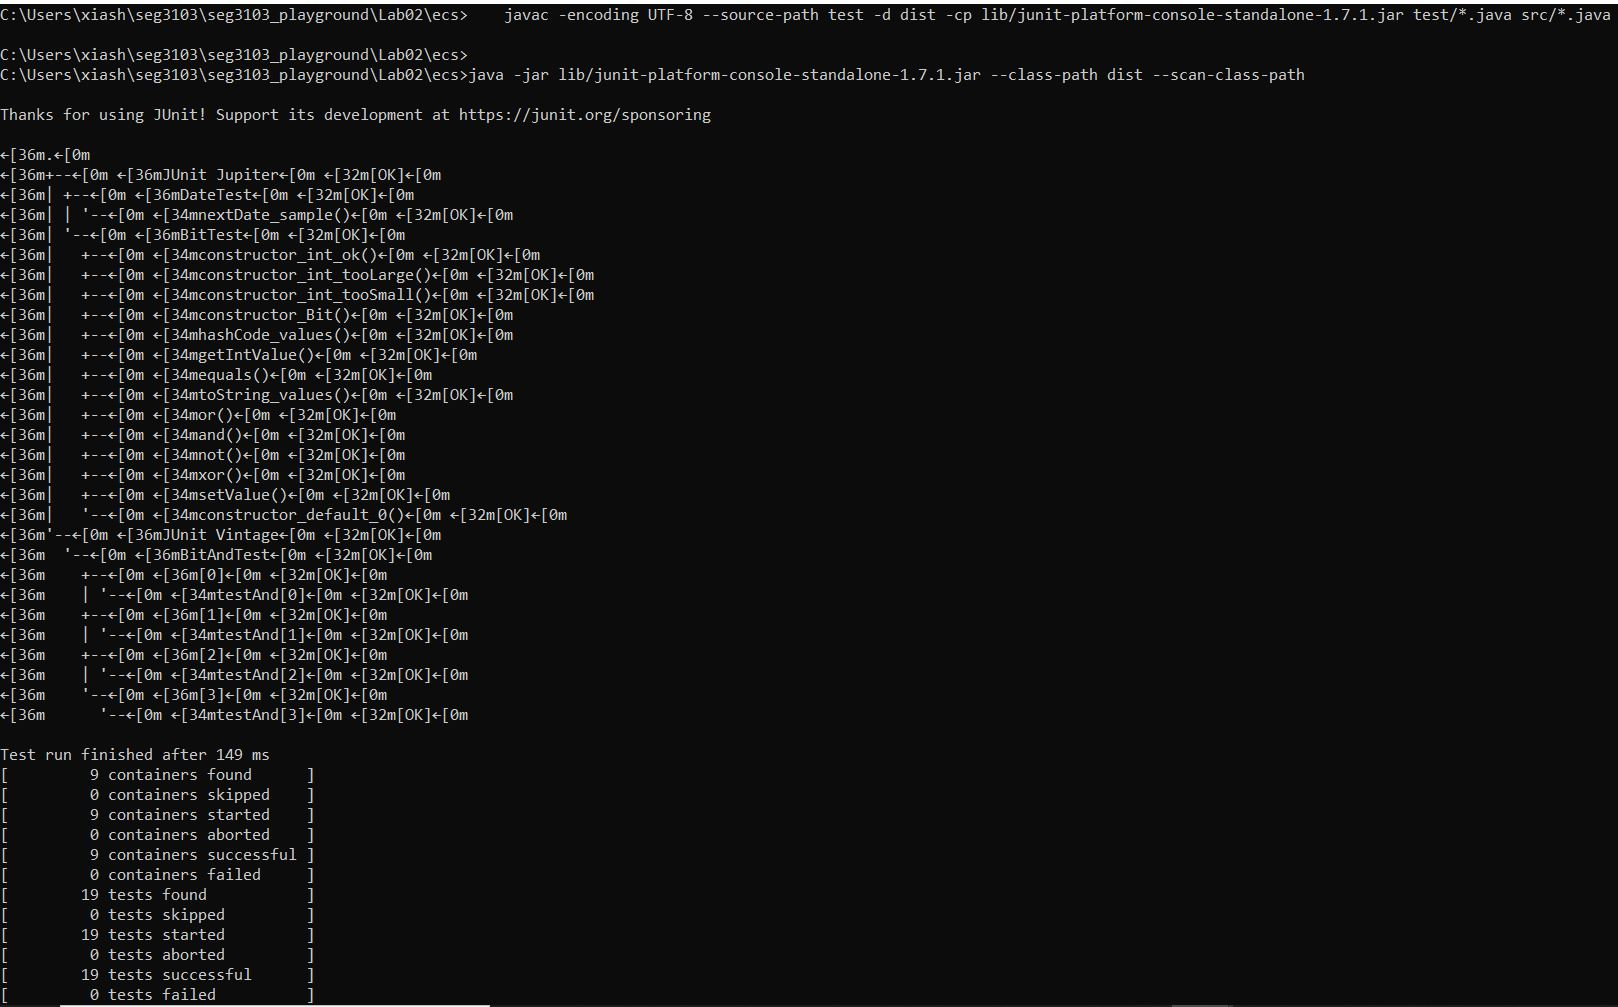
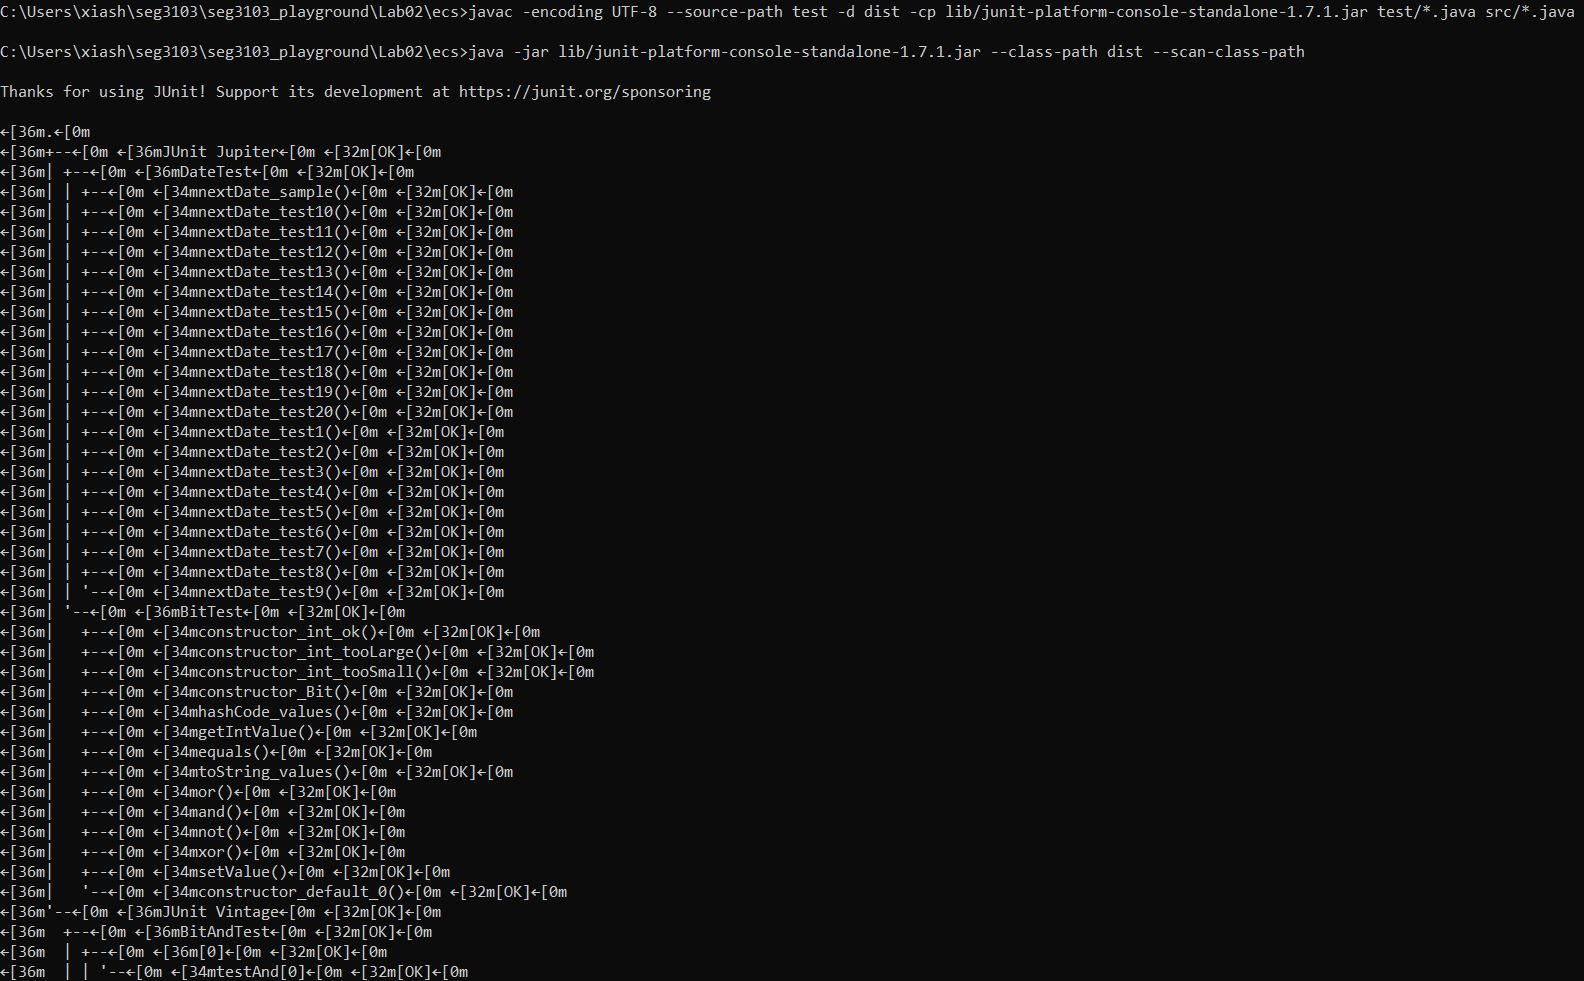
update test java

Changed region(s): [[0.0, 0.0, 1.0, 1.0]]

diff --git a/Lab02/ecs/test/DateTest.java b/Lab02/ecs/test/DateTest.java
@@ -6,8 +6,123 @@ class DateTest {
 
   @Test
   void nextDate_sample() {
-    Date d = new Date(2020,5,3);
-    assertEquals(new Date(2020,5,4), d.nextDate());
+    Date d = new Date(2020, 5, 3);
+    assertEquals(new Date(2020, 5, 4), d.nextDate());
+  }
+
+@Test
+  void nextDate_test1() {
+    Date d = new Date(1700,6,20);
+    assertEquals(new Date(1700,6,21), d.nextDate());
+  }
+
+  @Test
+  void nextDate_test2() {
+    Date d = new Date(2005,4,15);
+    assertEquals(new Date(2005,4,16), d.nextDate());
+  }
+
+  @Test
+  void nextDate_test3() {
+    Date d = new Date(1901,7,20);
+    assertEquals(new Date(1901,7,21), d.nextDate());
+  }
+
+  @Test
+  void nextDate_test4() {
+    Date d = new Date(3456,3,27);
+    assertEquals(new Date(3456,3,28), d.nextDate());
+  }
+
+  @Test
+  void nextDate_test5() {
+    Date d = new Date(1500,2,17);
+    assertEquals(new Date(1500,2,18), d.nextDate());
+  }
+
+  @Test
+  void nextDate_test6() {
+    Date d = new Date(1700,6,29);
+    assertEquals(new Date(1700,6,30), d.nextDate());
+  }
+
+  @Test
+  void nextDate_test7() {
+    Date d = new Date(1800,11,29);
+    assertEquals(new Date(1800,11,30), d.nextDate());
+  }
+
+  @Test
+  void nextDate_test8() {
+    Date d = new Date(3453,1,29);
+    assertEquals(new Date(3453,1,30), d.nextDate());
+  }
+
+  @Test
+  void nextDate_test9() {
+    Date d = new Date(444,2,29);
+    assertEquals(new Date(444,3,1), d.nextDate());
+  }
+
+  @Test
+  void nextDate_test10() {
+    Date d = new Date(2005,4,30);
+    assertEquals(new Date(2005,5,1), d.nextDate());
+  }
+
+  @Test
+  void nextDate_test11() {
+    Date d = new Date(3453,1,30);
+    assertEquals(new Date(3453,1,31), d.nextDate());
+  }
+
+  @Test
+  void nextDate_test12() {
+    Date d = new Date(3456,3,30);
+    assertEquals(new Date(3456,03,31), d.nextDate());
+  }
+
+  @Test
+  void nextDate_test13() {
+    Date d = new Date(1901,7,31);
+    assertEquals(new Date(1901,8,1), d.nextDate());
+  }
+
+  @Test
+  void nextDate_test14() {
+    Date d = new Date(3453,1,31);
+    assertEquals(new Date(3453,2,1), d.nextDate());
+  }
+
+  @Test
+  void nextDate_test15() {
+    Date d = new Date(3456,12,31);
+    assertEquals(new Date(3457,01,01), d.nextDate());
+  }
+
+  @Test
+  void nextDate_test16() {
+  	assertThrows(IllegalArgumentException.class, () -> new Date(1500,2,31));
+  }
+
+  @Test
+  void nextDate_test17() {
+    assertThrows(IllegalArgumentException.class, () -> new Date(1500,2,29));
+  }
+
+  @Test
+  void nextDate_test18() {
+    assertThrows(IllegalArgumentException.class, () -> new Date(-1,10,20));
+  }
+
+  @Test
+  void nextDate_test19() {
+    assertThrows(IllegalArgumentException.class, () -> new Date(1458,15,12));
+  }
+
+  @Test
+  void nextDate_test20() {
+    assertThrows(IllegalArgumentException.class, () -> new Date(1975,6,-50));
   }
 
 }

diff --git a/Lab02/ecs/test/DateNextDateOkTest.java b/Lab02/ecs/test/DateNextDateOkTest.java
@@ -1,5 +1,88 @@
+import java.util.LinkedList;
+import java.util.List;
+import org.junit.Assert;
+import org.junit.Test;
+import org.junit.runner.RunWith;
+import org.junit.runners.Parameterized;
+import org.junit.runners.Parameterized.Parameters;
+
+@RunWith(Parameterized.class)
 public class DateNextDateOkTest
-{
+{ 
+    public int day;
+	public int month;
+	public int year; 	
+	private Date date;
+	private Date expDate;
+
+	public DateNextDateOkTest(int year, int month, int day) {
+		this.day = day; 	
+		this.month= month;
+		this.year = year;  
+		this.date = new Date(year, month, day);
+		this.expDate = date.nextDate();
+	}
+
+	@Parameters public static List<Integer[]> dateList() {
+		List<Integer[]> testDate = new LinkedList<Integer[]>();
+		testDate.add(new Integer[] {  1700 ,  6,  20 });
+		testDate.add(new Integer[] {  2005 ,  4,  15 });
+		testDate.add(new Integer[] { 1901,  7 ,  20 });
+		testDate.add(new Integer[] { 3456,  3 , 27 });
+		testDate.add(new Integer[] { 1500,  2 ,  17 });
+		testDate.add(new Integer[] { 1700,  6 ,  29 });
+		testDate.add(new Integer[] {  1800 , 11, 29 });
+		testDate.add(new Integer[] {  3453 ,  1, 29 });
+		testDate.add(new Integer[] { 444,  2 ,  29 });
+		testDate.add(new Integer[] { 2005,  4 , 30 });
+		testDate.add(new Integer[] { 3453,  1 , 30 });
+		testDate.add(new Integer[] { 3456,  3 , 30 });
+		testDate.add(new Integer[] {  1901 ,  7, 31 });
+		testDate.add(new Integer[] { 3453,  1 , 31 });
+		testDate.add(new Integer[] { 3456,  12 , 31 });
+
+		return testDate;
+	}
+
+
+
+	@Test
+	public void testNextDate()	{
+	
+   switch(month){
+	   case 1: case 3: case 5: case 7: case 8: case 10:
+	   if(day==31){
+	   day=1;
+	   Date actualDate = new Date(year,(month+1),day);
+	   Assert.assertEquals(expDate,actualDate);}
+	   break;
+	   case 4: case 6: case 9: case 11: 
+       if(day==30){
+	   day=1;
+	   Date actualDate = new Date(year,(month+1),day);
+	   Assert.assertEquals(expDate,actualDate);}
+	   break;
+	   case 12:
+	   if(day==31){
+	   day=1;
+	   month=1;
+	   year+=1;
+	   Date actualDate = new Date(year,month,day);
+	   Assert.assertEquals(expDate,actualDate);}
+	   break;
+	   case 2:
+	   if ((((year % 4 == 0) && !(year % 100 == 0)) || (year % 400 == 0))&&day==29){
+	   day=1;
+	   Date actualDate = new Date(year,(month+1),day);
+	   Assert.assertEquals(expDate,actualDate);}
+	   break;
+	   default:
+	   Date actualDate = new Date(year,month,(day+1));
+	   Assert.assertEquals(expDate, actualDate);
+	   break;
+   }
+}
+
 
 
 }

diff --git a/Lab02/ecs/test/DateNextDateExceptionTest.java b/Lab02/ecs/test/DateNextDateExceptionTest.java
@@ -1,5 +1,42 @@
+import java.util.LinkedList;
+import java.util.List;
+import org.junit.Assert;
+import org.junit.Test;
+import org.junit.runner.RunWith;
+import org.junit.runners.Parameterized;
+import org.junit.runners.Parameterized.Parameters;
+
+@RunWith(Parameterized.class)
 public class DateNextDateExceptionTest
 {
 
+	private int year;
+	private int month;
+	private int day;
+
+	public DateNextDateExceptionTest(int year, int month, int day)
+	{
+		this.year = year;
+		this.month = month;
+		this.day = day;
+	}
+
+	@Parameters
+	public static List<Integer[]> DateTest()
+	{
+		List<Integer[]> dateList = new LinkedList<Integer[]>( );
+		dateList.add(new Integer[] { 1500,2,31 });
+		dateList.add(new Integer[] { 1500,2,29 });
+		dateList.add(new Integer[] { -1,10,20 });
+		dateList.add(new Integer[] { 1458,15,12 });
+		dateList.add(new Integer[] { 1975,6,-50 });
+		return dateList;
+	}
+
+	@Test
+	public void testNextDateException()
+	{
+		Assert.assertThrows(IllegalArgumentException.class, () -> new Date(year,month,day));
+	}
 
 }
